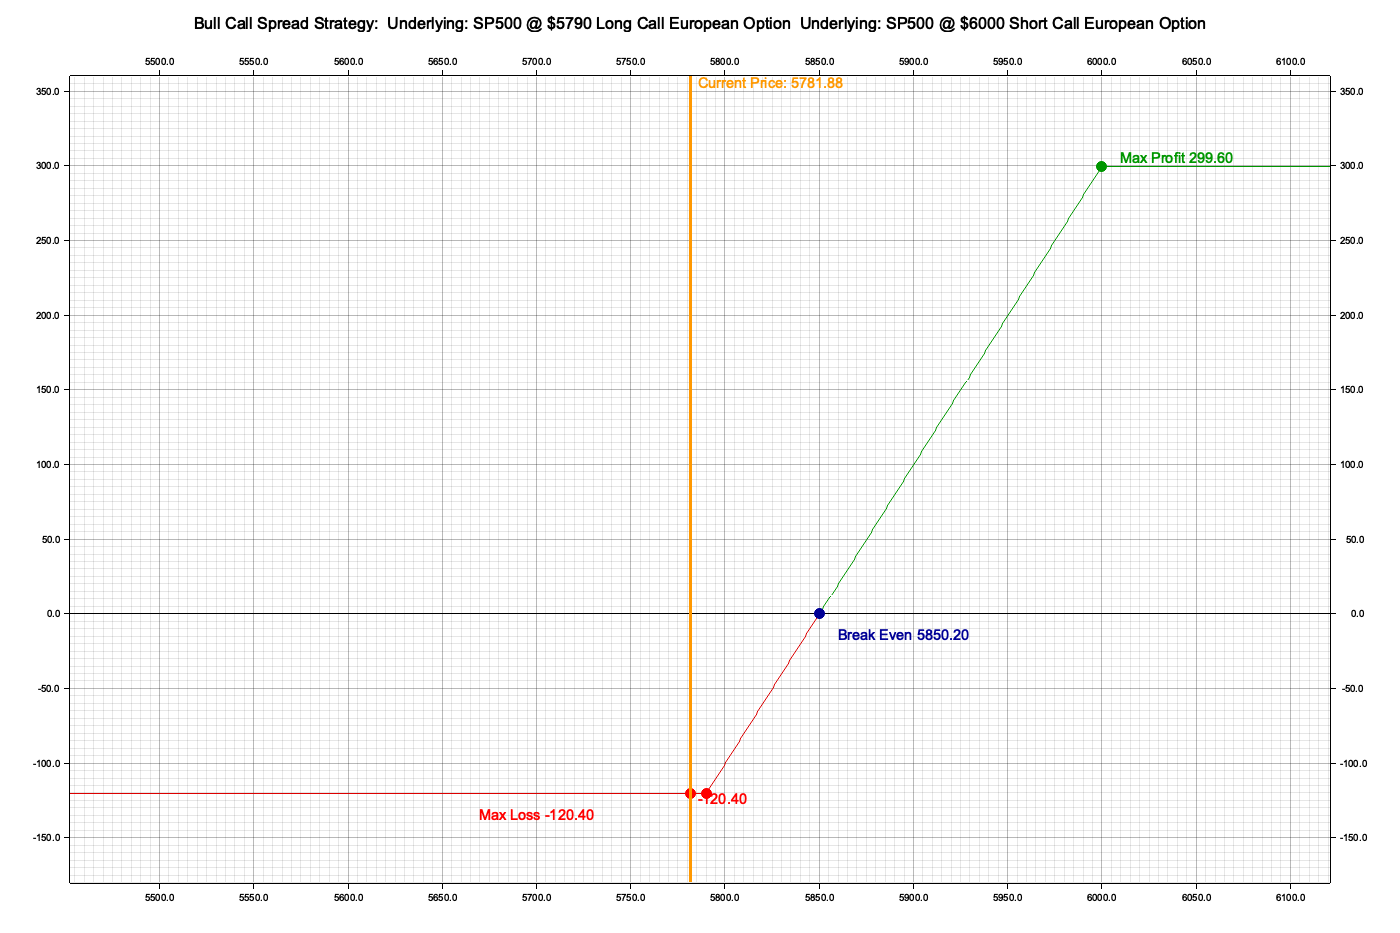
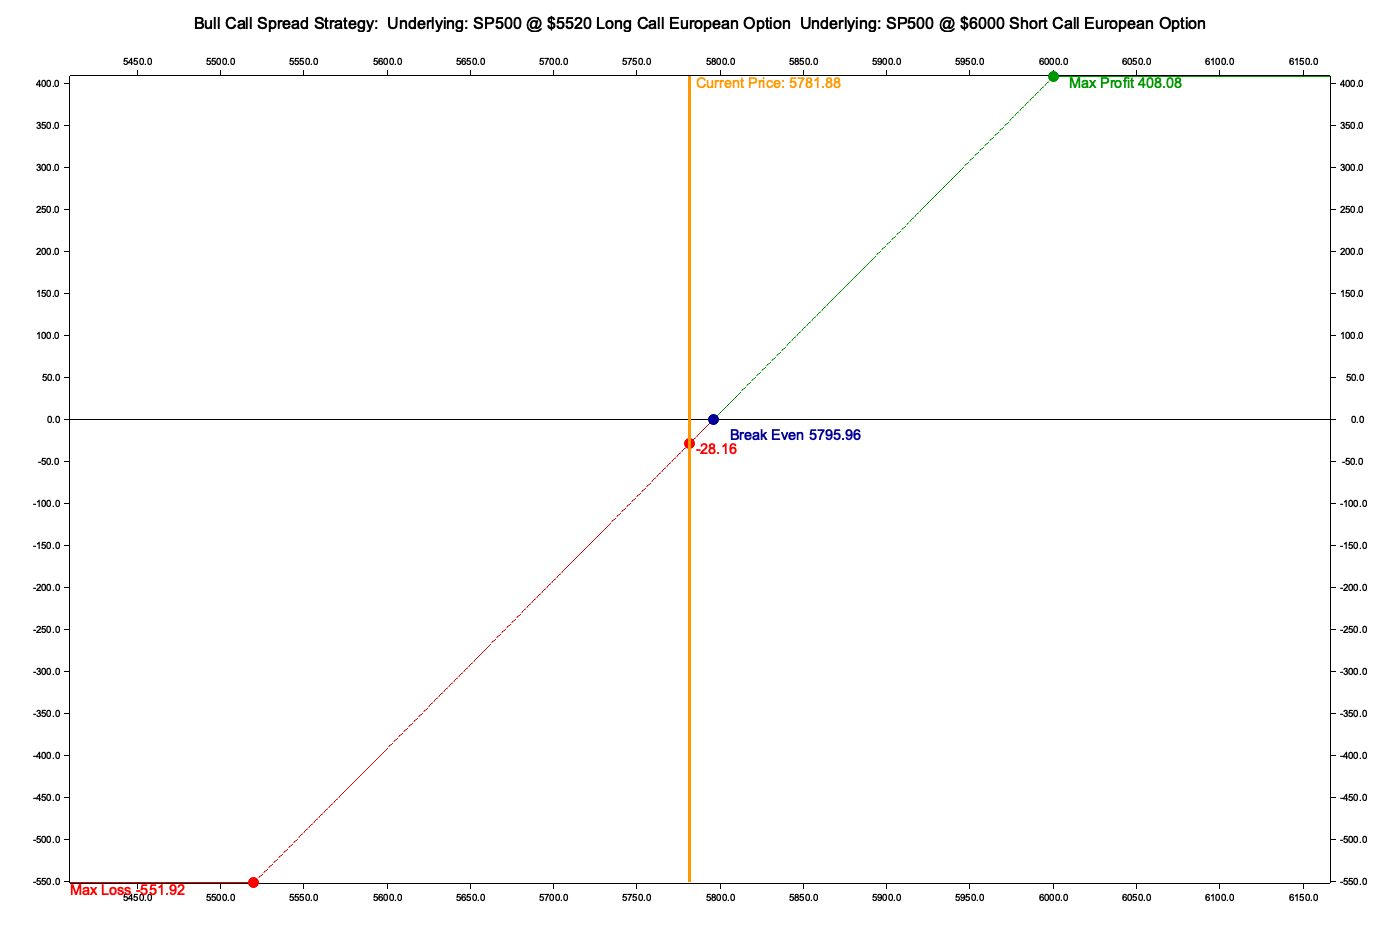
Refine bull call spread logic and add optimal center tests
Updated the filtering logic in `BullCallSpread` to handle the "Center" case for optimal side determination. Adjusted the example to use the Center option and added a new unit test to validate strategy behavior. Also updated the related profit-loss chart for visualization.

Changed region(s): [[0.0307, 0.0622, 0.9829, 0.9636], [0.3993, 0.0, 0.43, 0.0311]]

diff --git a/tests/unit/strategies/optimal_center/strategy_bull_call_spread.rs b/tests/unit/strategies/optimal_center/strategy_bull_call_spread.rs
@@ -1,0 +1,56 @@
+use optionstratlib::Side;
+use optionstratlib::strategies::base::Positionable;
+#[cfg(not(target_arch = "wasm32"))]
+use {
+    optionstratlib::chains::chain::OptionChain,
+    optionstratlib::strategies::base::Optimizable,
+    optionstratlib::strategies::{BullCallSpread, FindOptimalSide},
+    optionstratlib::utils::setup_logger,
+    optionstratlib::{ExpirationDate, Positive, pos},
+    rust_decimal_macros::dec,
+    std::error::Error,
+};
+
+#[test]
+#[cfg(not(target_arch = "wasm32"))]
+fn test_bull_call_spread_integration() -> Result<(), Box<dyn Error>> {
+    setup_logger();
+
+    // Define inputs for the BullCallSpread strategy
+    let underlying_price = pos!(5781.88);
+
+    let mut strategy = BullCallSpread::new(
+        "SP500".to_string(),
+        underlying_price, // underlying_price
+        pos!(5750.0),     // long_strike_itm
+        pos!(5820.0),     // short_strike
+        ExpirationDate::Days(pos!(2.0)),
+        pos!(0.18),     // implied_volatility
+        dec!(0.05),     // risk_free_rate
+        Positive::ZERO, // dividend_yield
+        pos!(2.0),      // long quantity
+        pos!(85.04),    // premium_long
+        pos!(29.85),    // premium_short
+        pos!(0.78),     // open_fee_long
+        pos!(0.78),     // open_fee_long
+        pos!(0.73),     // close_fee_long
+        pos!(0.73),     // close_fee_short
+    );
+
+    let option_chain =
+        OptionChain::load_from_json("./examples/Chains/SP500-18-oct-2024-5781.88.json")?;
+    strategy.best_area(&option_chain, FindOptimalSide::Center);
+    let positions = strategy.get_positions()?;
+    for position in positions {
+        match position.option.side {
+            Side::Long => {
+                assert!(position.option.strike_price <= underlying_price)
+            }
+            Side::Short => {
+                assert!(position.option.strike_price >= underlying_price)
+            }
+        }
+    }
+
+    Ok(())
+}

diff --git a/src/strategies/bull_call_spread.rs b/src/strategies/bull_call_spread.rs
@@ -527,9 +527,14 @@ impl Optimizable for BullCallSpread {
         option_chain
             .get_double_iter()
             // Filter out invalid combinations based on FindOptimalSide
-            .filter(move |&option| {
-                option.0.is_valid_optimal_side(underlying_price, &side)
-                    && option.1.is_valid_optimal_side(underlying_price, &side)
+            .filter(move |&(long, short)| {
+                if side == FindOptimalSide::Center {
+                    long.is_valid_optimal_side(underlying_price, &FindOptimalSide::Lower)
+                        && short.is_valid_optimal_side(underlying_price, &FindOptimalSide::Upper)
+                } else {
+                    long.is_valid_optimal_side(underlying_price, &side)
+                        && short.is_valid_optimal_side(underlying_price, &side)
+                }
             })
             // Filter out options with invalid bid/ask prices
             .filter(|(long, short)| {

diff --git a/examples/examples_strategies_best/src/bin/strategy_bull_call_spread_best_area.rs b/examples/examples_strategies_best/src/bin/strategy_bull_call_spread_best_area.rs
@@ -34,7 +34,7 @@ fn main() -> Result<(), Box<dyn Error>> {
         pos!(0.82),     // open_fee_short_put
         pos!(0.82),     // close_fee_short_put
     );
-    strategy.best_area(&option_chain, FindOptimalSide::Upper);
+    strategy.best_area(&option_chain, FindOptimalSide::Center);
     debug!("Option Chain: {}", option_chain);
     debug!("Strategy:  {:#?}", strategy);
 
